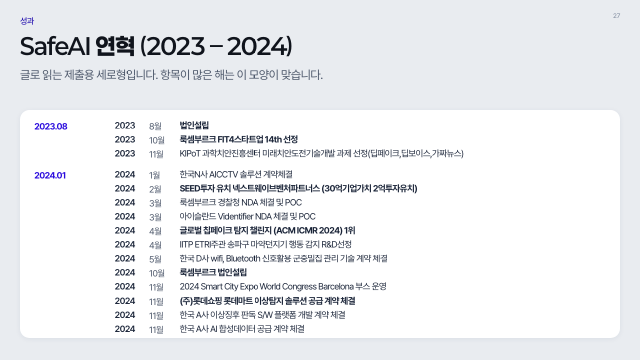
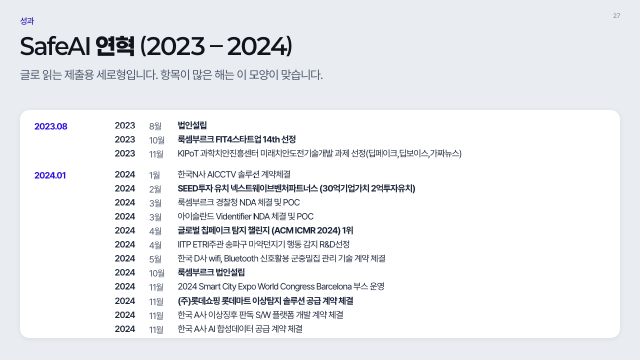
연혁 세로형 월–내용 간격 4px 더 좁힘(총 8px)

Changed region(s): [[0.2812, 0.3361, 0.7188, 0.9472]]

diff --git a/docs/templates/deck.html b/docs/templates/deck.html
@@ -205,7 +205,7 @@ table.rt{width:100%;border-collapse:collapse;font-size:calc(var(--fs-table) * va
 .hist.list .hg{display:grid;grid-template-columns:7.5em 1fr;column-gap:1.4em;}
 .hist.list .hp{font-weight:700;color:var(--primary);line-height:1.55;}
 .hist.list .hrow{display:grid;grid-template-columns:3.2em 3em 1fr;column-gap:.6em;line-height:1.55;}
-.hist.list .hrow .hy{font-weight:600;} .hist.list .hrow .hm{color:var(--text-mid);} .hist.list .hrow .ht{color:var(--text);font-size:1em;margin-left:-4px;}   /* 월과 내용 사이 4px 좁게 */
+.hist.list .hrow .hy{font-weight:600;} .hist.list .hrow .hm{color:var(--text-mid);} .hist.list .hrow .ht{color:var(--text);font-size:1em;margin-left:-8px;}   /* 월과 내용 사이 8px 좁게(2026-10-10) */
 /* gantt(2026-10-09, 레퍼런스 "시간표" 모양) — 위에 진한 머리띠(열 라벨 흰 글자) · 왼쪽 항목 이름 · 이름 끝에서 막대까지 가는 안내선 ·
    막대는 두껍게, 라벨은 막대 안 흰 글자 · 막대 앞뒤에 시작·끝 표시(from·to). 세로 격자선·가로 구분선 없음 */
 .gantt{display:flex;flex-direction:column;flex:1;min-height:0;font-size:var(--fs-small);--gl:24%;}
